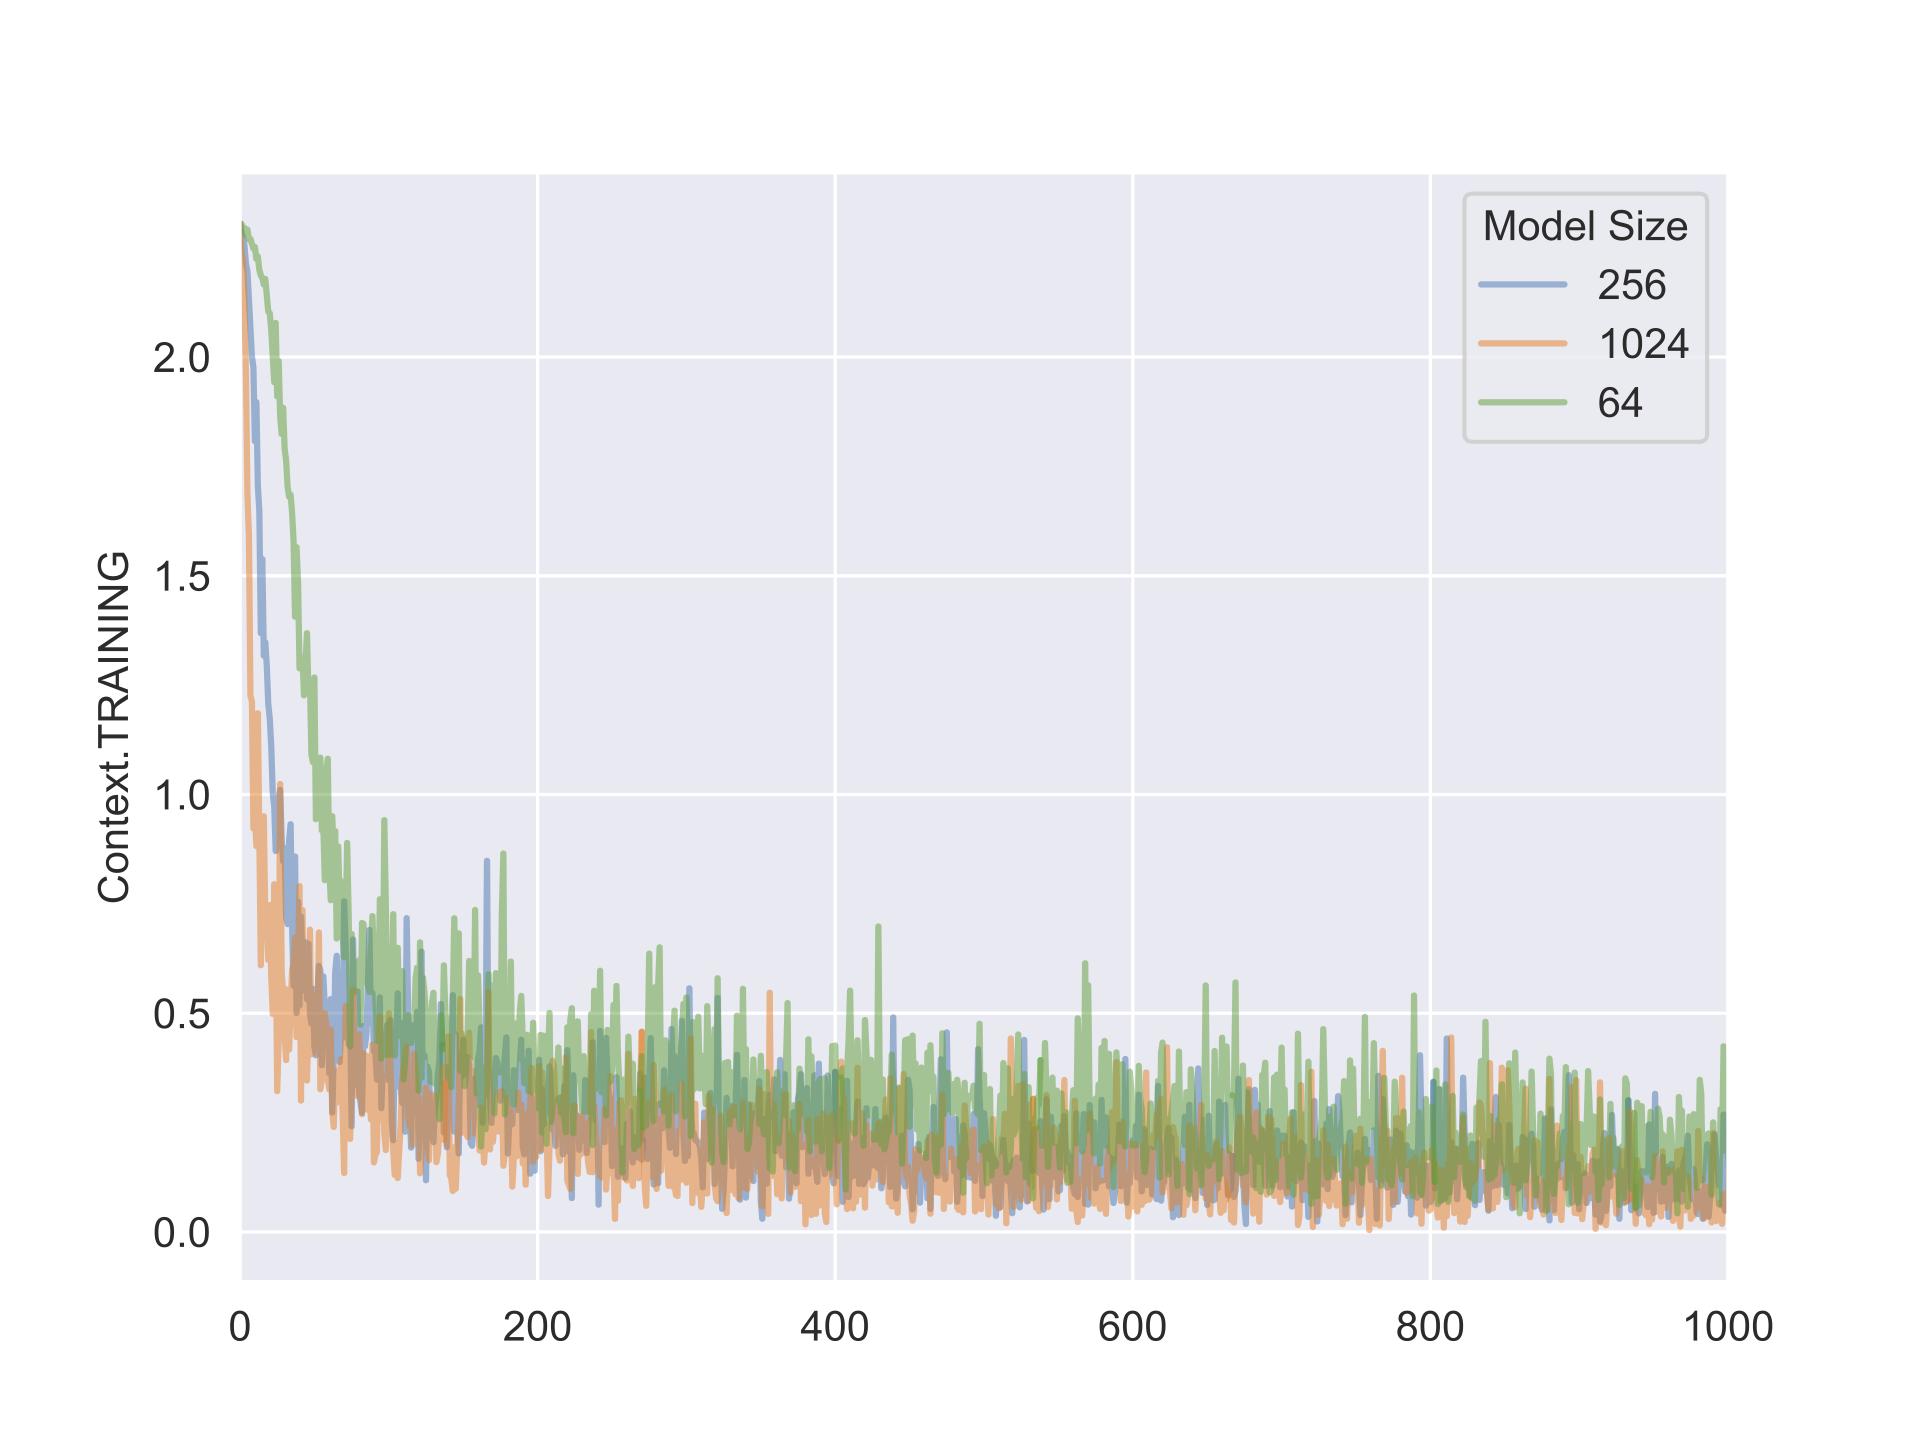
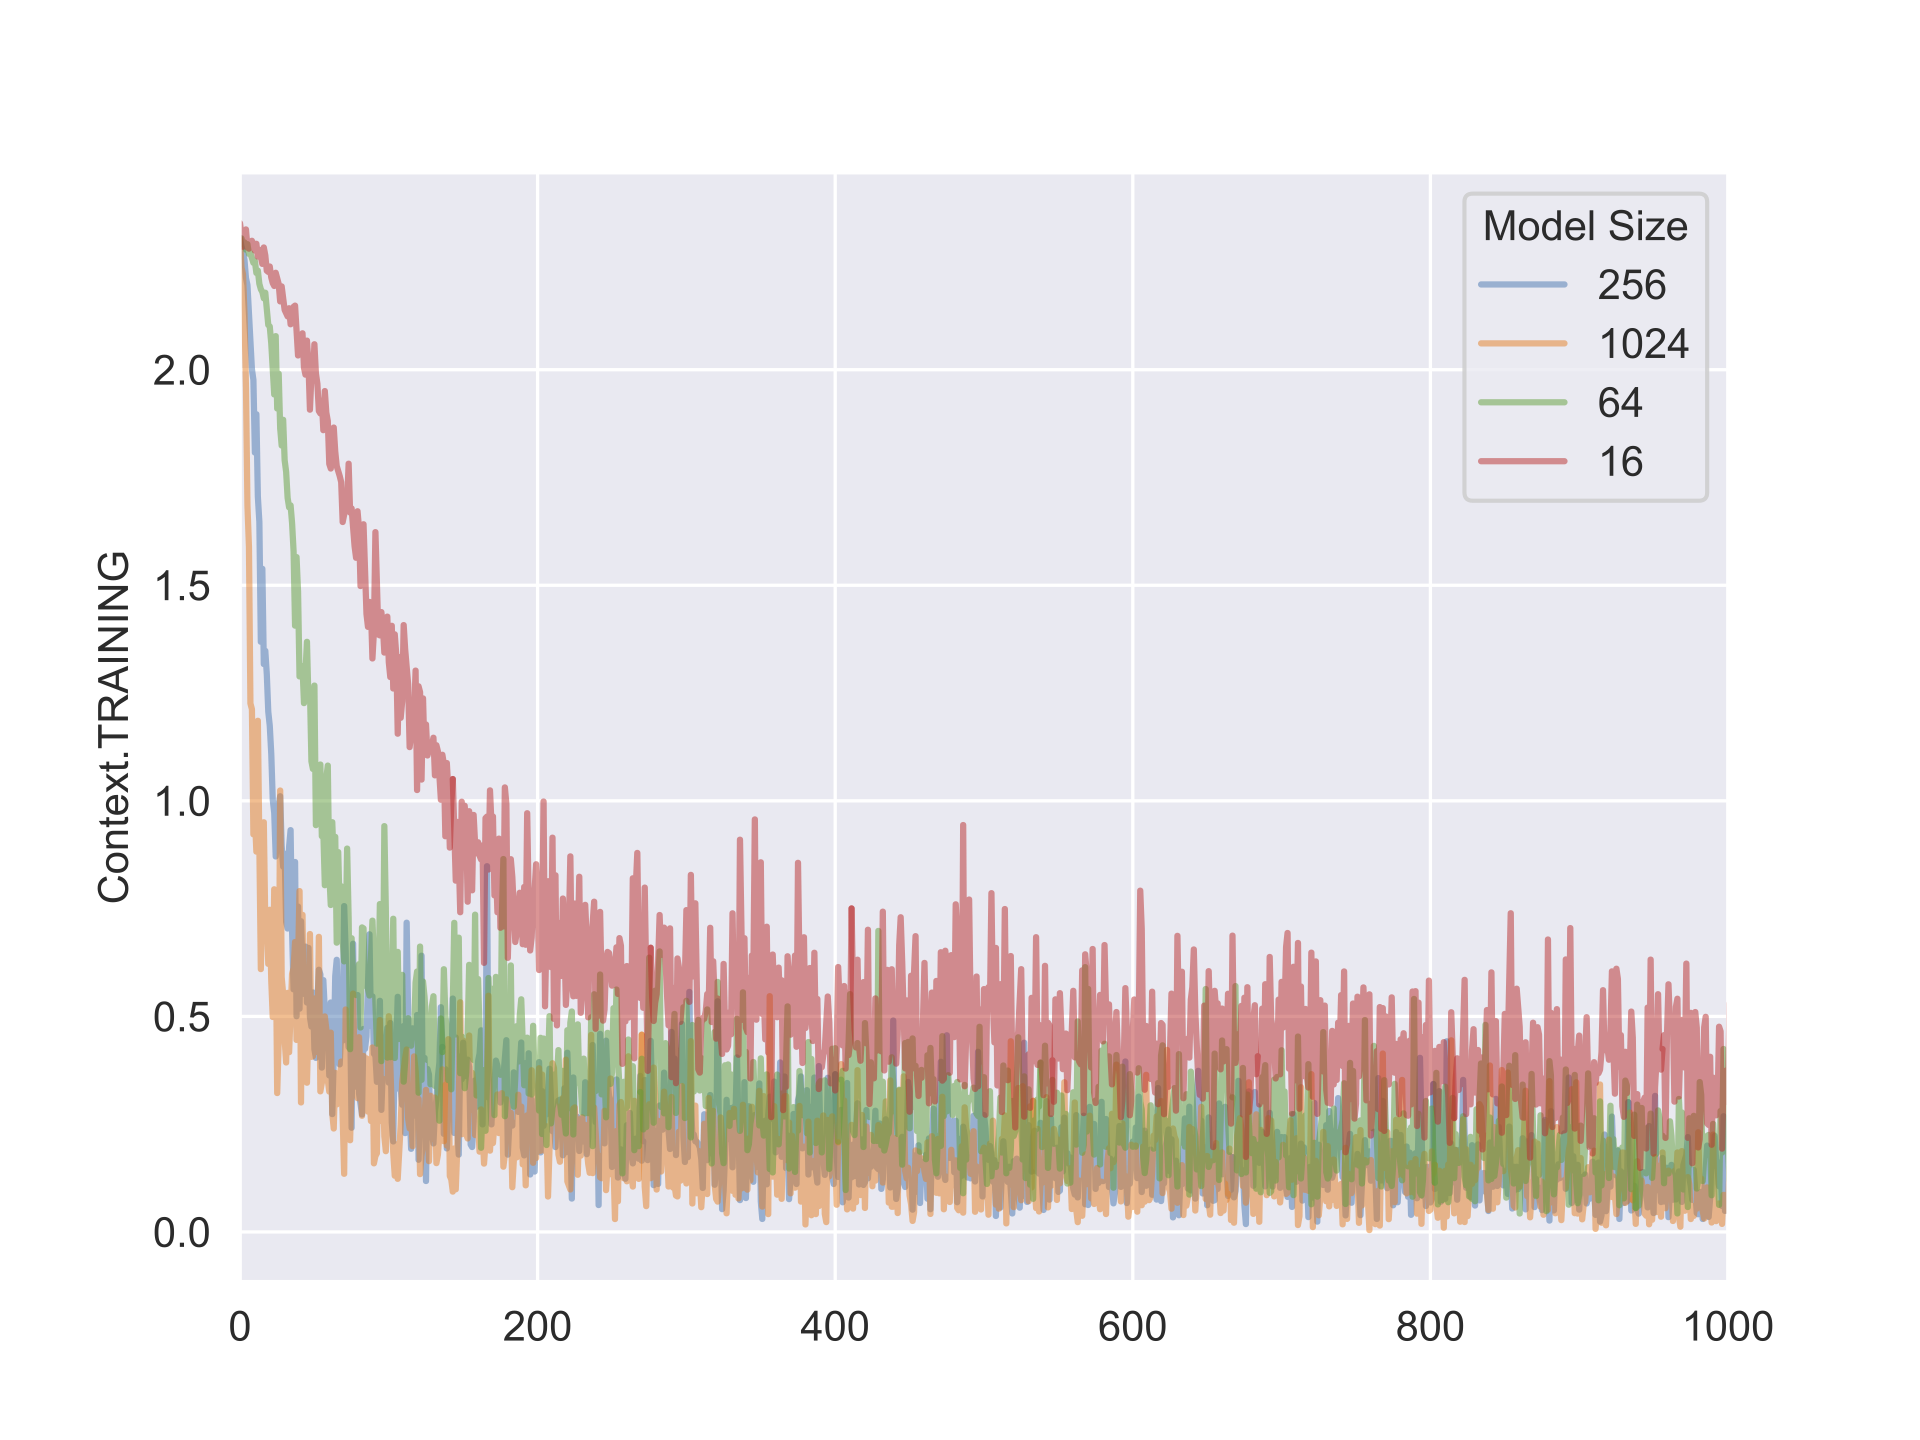
added scaling tests

diff --git a/src/ml_usecase.py b/src/ml_usecase.py
@@ -9,14 +9,17 @@ import numpy as np
 import yprov4ml
 
 BATCH_SIZE = 64
-PARAMS = 2**6
+PARAMS = 2**4
 EPOCHS = 2
+SAMPLES = None
 
 def ml_training(device="cuda"):
     device = torch.device(device)
 
     transform = transforms.ToTensor()
     trainset = torchvision.datasets.MNIST(root="./data", train=True, download=True, transform=transform)
+    if SAMPLES: 
+        trainset = torch.utils.data.Subset(trainset, range(SAMPLES))
     trainloader = torch.utils.data.DataLoader(trainset, batch_size=BATCH_SIZE, shuffle=True, num_workers=0)
 
     model = nn.Sequential(
@@ -45,17 +48,57 @@ def ml_training(device="cuda"):
             optimizer.step()
 
 # ---------------- yPROV RUN ------------------
-yprov4ml.start_run(
-    prov_user_namespace="www.example.org",
-    experiment_name=f"ml", 
-    provenance_save_dir="prov",
-    save_after_n_logs=100,
-    collect_all_processes=False, 
-    disable_codecarbon=True, 
-    metrics_file_type=yprov4ml.MetricsType.CSV,
-)
+# PARAMETERS
 
-ml_training(device="mps")
+# PARAMSS = [2**i for i in range(4, 12, 2)]
+# for PARAMS in PARAMSS: 
+#     yprov4ml.start_run(
+#         prov_user_namespace="www.example.org",
+#         experiment_name=f"ml_params_{PARAMS}", 
+#         provenance_save_dir="prov",
+#         save_after_n_logs=100,
+#         collect_all_processes=False, 
+#         disable_codecarbon=True, 
+#         metrics_file_type=yprov4ml.MetricsType.CSV,
+#     )
 
-yprov4ml.end_run(create_graph=False, create_svg=False, crate_ro_crate=False)
+#     ml_training(device="mps")
+
+#     yprov4ml.end_run(create_graph=False, create_svg=False, crate_ro_crate=False)
+# ---------------------------------------------
+# COMPUTE
+
+EPOCHSS = range(1, 10, 2)
+for EPOCHS in EPOCHSS: 
+    yprov4ml.start_run(
+        prov_user_namespace="www.example.org",
+        experiment_name=f"ml_epochs_{EPOCHS}", 
+        provenance_save_dir="prov",
+        save_after_n_logs=100,
+        collect_all_processes=False, 
+        disable_codecarbon=True, 
+        metrics_file_type=yprov4ml.MetricsType.CSV,
+    )
+
+    ml_training(device="mps")
+
+    yprov4ml.end_run(create_graph=False, create_svg=False, crate_ro_crate=False)
+# ---------------------------------------------
+
+# DATA
+# SAMPLESS = [2** i for i in range(10, 16)] + [None]
+# for SAMPLES in SAMPLESS: 
+#     yprov4ml.start_run(
+#         prov_user_namespace="www.example.org",
+#         experiment_name=f"ml_samples_{SAMPLES}", 
+#         provenance_save_dir="prov",
+#         save_after_n_logs=100,
+#         collect_all_processes=False, 
+#         disable_codecarbon=True, 
+#         metrics_file_type=yprov4ml.MetricsType.CSV,
+#     )
+
+#     ml_training(device="mps")
+
+#     yprov4ml.end_run(create_graph=False, create_svg=False, crate_ro_crate=False)
 # ---------------------------------------------

diff --git a/src/plot/loss.py b/src/plot/loss.py
@@ -1,9 +1,32 @@
 import pandas as pd
 import matplotlib.pyplot as plt
 import seaborn as sns
+import os
+
+# SAMPLES
+# USECASES = [f for f in os.listdir("prov") if "ml_samples" in f]
+# SAMPLES = [u.split("_")[-2] for u in USECASES]
+# METRICS = ["Loss"]
+
+# for METRIC in METRICS: 
+
+#     sns.set_style("darkgrid")
+
+#     for USECASE in USECASES: 
+#         PATH = f"prov/{USECASE}/metrics_GR0/{METRIC}_Context.TRAINING_GR0.csv"
+#         data = pd.read_csv(PATH, sep=",")
+#         time = data["None"] - data["None"].min()
+#         sns.lineplot(data, y="Context.TRAINING", x=time, alpha=0.5, errorbar=None)
+
+#     # plt.xlim((0, 1000))
+#     plt.legend(SAMPLES, title="Number of Samples")
+#     plt.savefig(f"imgs/{USECASE}_{METRIC}.pdf")
+#     plt.close()
 
 
-USECASES = ["ml_0", "ml_1", "ml_3"]
+# COMPUTE
+USECASES = [f for f in os.listdir("prov") if "ml_epochs" in f]
+EPOCHS = [u.split("_")[-2] for u in USECASES]
 METRICS = ["Loss"]
 
 for METRIC in METRICS: 
@@ -13,10 +36,29 @@ for METRIC in METRICS:
     for USECASE in USECASES: 
         PATH = f"prov/{USECASE}/metrics_GR0/{METRIC}_Context.TRAINING_GR0.csv"
         data = pd.read_csv(PATH, sep=",")
-        sns.lineplot(data["Context.TRAINING"], alpha=0.5, errorbar=None)
+        time = data["None"] - data["None"].min()
+        sns.lineplot(data, y="Context.TRAINING", x=time, alpha=0.5, errorbar=None)
 
-    plt.xlim((0, 1000))
-    plt.legend(["256", "1024", "64"], title="Model Size")
+    # plt.xlim((0, 1000))
+    plt.legend(EPOCHS, title="Epochs")
     plt.savefig(f"imgs/{USECASE}_{METRIC}.pdf")
     plt.close()
-    # plt.show()
+
+# PARAMS
+# USECASES = [f for f in os.listdir("prov") if "ml_params" in f]
+# PARAMS = [u.split("_")[-2] for u in USECASES]
+# METRICS = ["Loss"]
+# for METRIC in METRICS: 
+
+#     sns.set_style("darkgrid")
+
+#     for USECASE in USECASES: 
+#         PATH = f"prov/{USECASE}/metrics_GR0/{METRIC}_Context.TRAINING_GR0.csv"
+#         data = pd.read_csv(PATH, sep=",")
+#         time = data["None"] - data["None"].min()
+#         sns.lineplot(data["Context.TRAINING"], alpha=0.5, errorbar=None)
+
+#     plt.xlim((0, 1000))
+#     plt.legend(PARAMS, title="Model Size")
+#     plt.savefig(f"imgs/{USECASE}_{METRIC}.pdf")
+#     plt.close()
